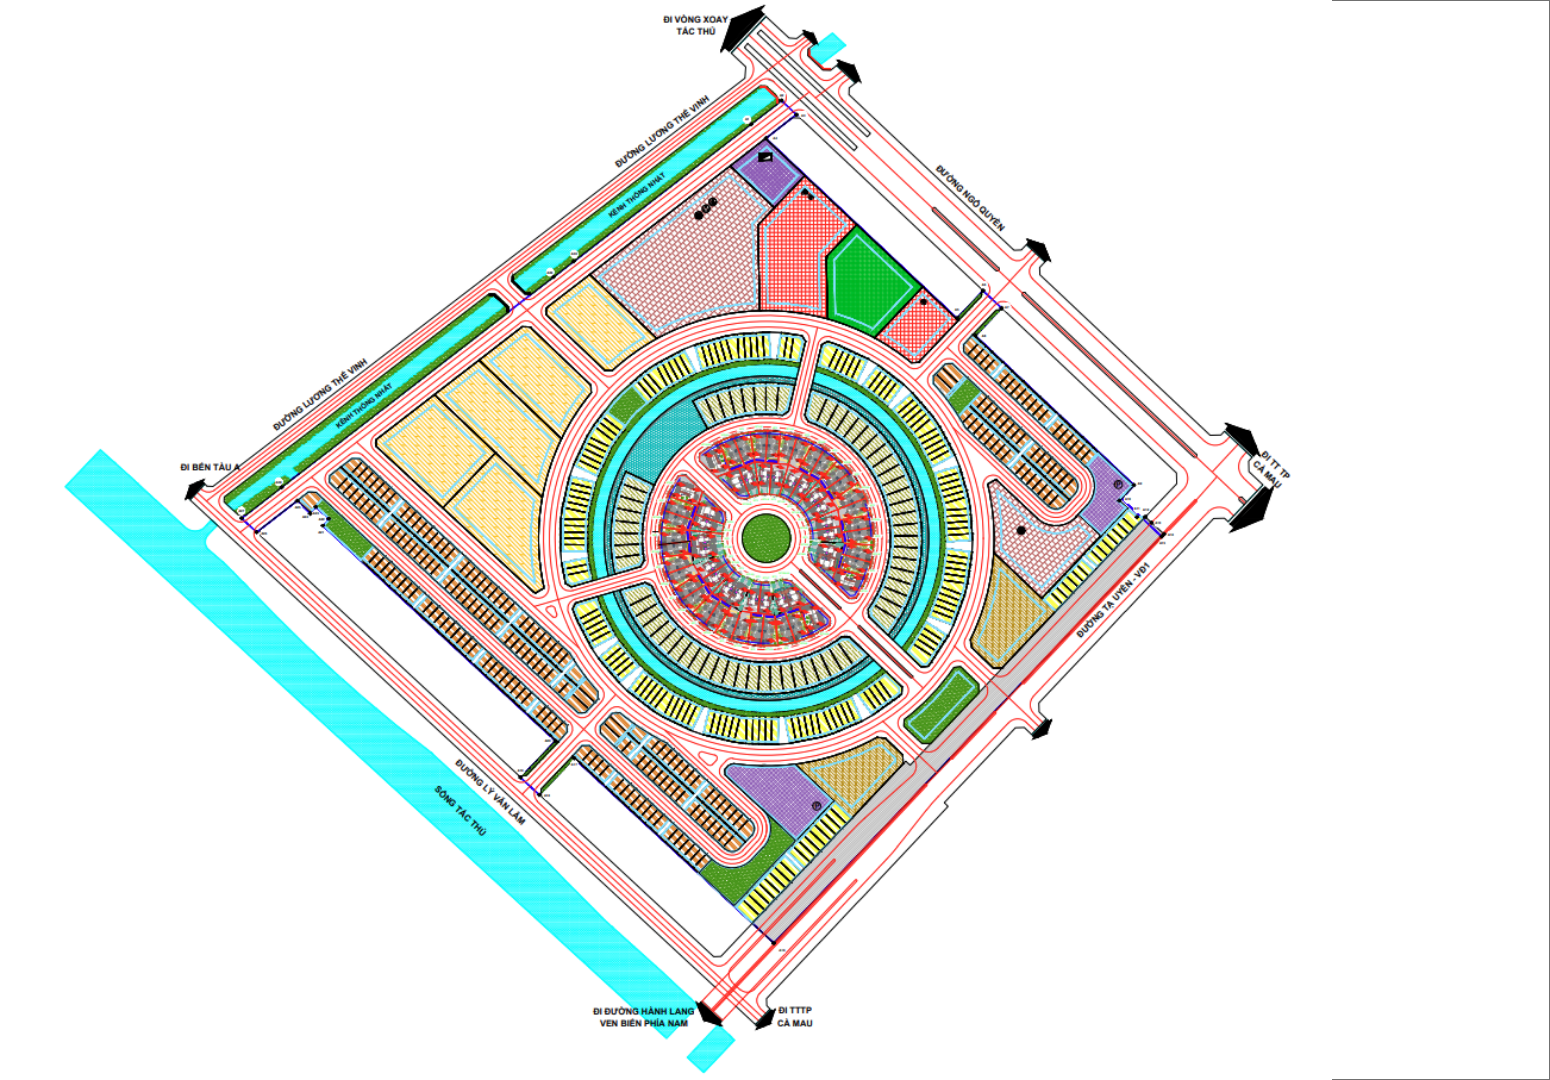
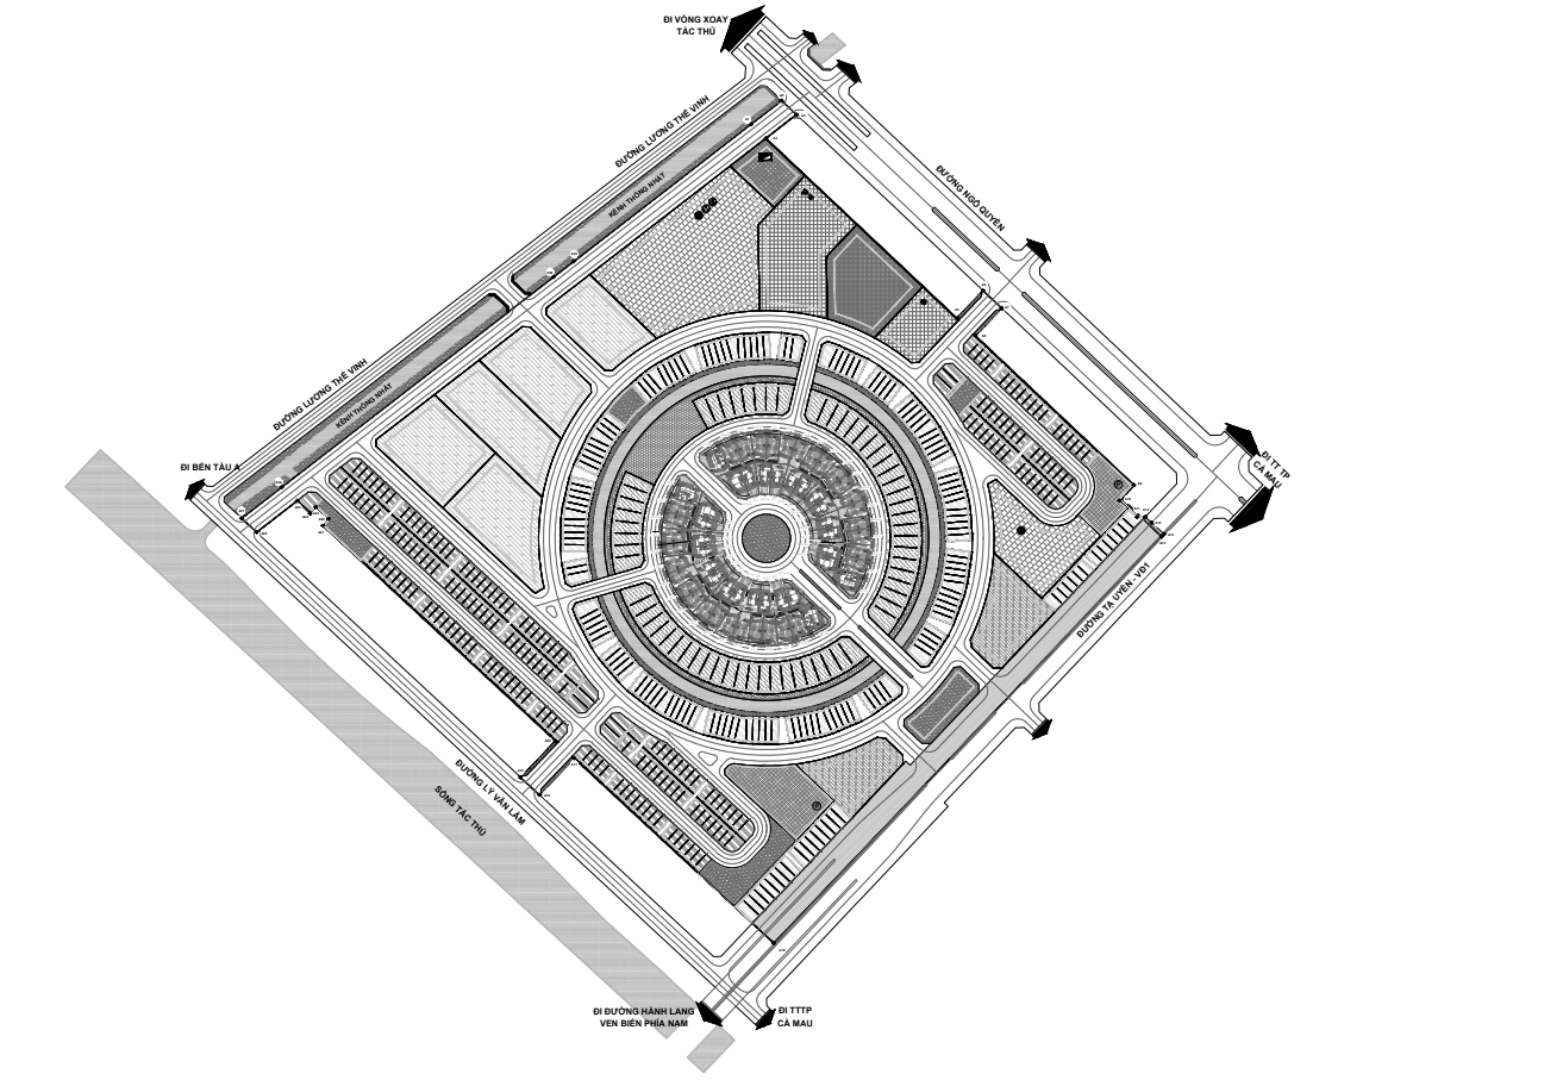
10/12/25lan2

diff --git a/components/UtilityDetails3/ZoningSystem.module.css b/components/UtilityDetails3/ZoningSystem.module.css
@@ -12,29 +12,32 @@
 
 /* Wrapper để đặt SVG lên ảnh */
 .imageWrapper {
-  position: relative; /* ✅ để SVG có thể đặt lên ảnh */
+  position: relative; /* Để SVG có thể đặt lên ảnh */
+  width: 100%;
 }
 
 /* Ảnh full kích thước */
 .img {
   width: 100%;
-  height: 100%;
-  object-fit: cover; 
+  height: auto; /* Có thể thay đổi thành height: 100% nếu cần */
+  object-fit: cover;
   display: block;
+  z-index: 1; /* Đảm bảo ảnh nằm dưới SVG */
 }
 
-
+/* SVG overlay */
 .overlaySvg {
-  position: absolute;
-  top: 20px; 
-  left: 20px;
-  pointer-events: none; 
+  position: absolute; /* Để đặt SVG ở vị trí chính xác */
+  /* top: 20px; 
+  left: 20px;  */
+  /* z-index: 2;  */
+  pointer-events: none; /* Ngăn chặn sự kiện chuột trên SVG nếu không cần thiết */
 }
 
 /* Cột phải (text) */
 .right {
-  width: 240px;     
-  background-color:#FFFAEE;
+  width: 240px;
+  background-color: #fffaee;
   justify-content: center;
   color: #762f0b;
   font-size: 18px;
@@ -69,8 +72,8 @@
   .overlaySvg {
     top: 10px;
     left: 10px;
-    width: 40px;
-    height: 40px;
+    width: 40px; /* Kích thước SVG */
+    height: 40px; /* Kích thước SVG */
   }
 }
 
@@ -88,24 +91,33 @@
   .overlaySvg {
     top: 5px;
     left: 5px;
-    width: 30px;
-    height: 30px;
+    width: 30px; /* Kích thước SVG */
+    height: 30px; /* Kích thước SVG */
   }
 }
-.imageWrapper {
-  position: relative;
-  width: 100%;
-}
-
-.img {
-  width: 100%;
-  height: auto;
-  object-fit: cover;
-  display: block;
-}
-
-/* .overlaySvg {
+.legendBox {
   position: absolute;
-  pointer-events: none;
-  transform: translate(-50%, -50%); 
-} */
+    top: 690px;
+    left: 300px;
+  z-index: 10;
+  display: flex;
+  gap: 100px;
+  /* background: rgba(255, 255, 255, 0.8); */
+  padding: 8px 12px;
+  border-radius: 8px;
+  /* backdrop-filter: blur(4px); */
+}
+
+.legendItem {
+  display: flex;
+  align-items: center;
+  gap: 6px;
+  font-size: 13px;
+  font-weight: 500;
+}
+
+.colorBox {
+  width: 20px;
+  height: 20px;
+  border-radius: 3px;
+}

diff --git a/components/UtilityDetails3/index.tsx b/components/UtilityDetails3/index.tsx
@@ -39,7 +39,7 @@ export default function ZoningSystem({ project_id, initiallayer2 }: ZoningSystem
 
 
 
- const filteredPaths = useMemo(() => {
+  const filteredPaths = useMemo(() => {
     if (!activeModels || activeModels.length === 0) return [];
 
     return pathsData.map((item: SvgItem) => {
@@ -108,14 +108,7 @@ export default function ZoningSystem({ project_id, initiallayer2 }: ZoningSystem
   return (
     <div className={styles.box}>
       <div className={styles.left}>
-         {/* <TransformWrapper
-          initialScale={1}
-     minScale={1} 
-          maxScale={5}
-          wheel={{ step: 0.2 }}
-          doubleClick={{ disabled: true }}
-        >
-          <TransformComponent> */}
+        
         <div className={styles.imageWrapper}>
            <Image
             src={imageSrc}
@@ -126,21 +119,7 @@ export default function ZoningSystem({ project_id, initiallayer2 }: ZoningSystem
             }}
           />
 
-         {/* {filteredPaths.map((item) => {
-  console.log("🟩 SVG được render lên UI:", item.id);
-
-  return (
-    <div
-      key={item.id}
-      className={styles.overlaySvg}
-      style={{
-        top: `${item.topPercent}%`,
-        left: `${item.leftPercent}%`,
-      }}
-      dangerouslySetInnerHTML={{ __html: item.svg }}
-    />
-  );
-})} */}
+      
   {filteredPaths.length > 0 ? (
             filteredPaths.map((item) => (
               <div
@@ -158,8 +137,7 @@ export default function ZoningSystem({ project_id, initiallayer2 }: ZoningSystem
           )}
 
         </div>
-  {/* </TransformComponent>
-        </TransformWrapper> */}
+
 
       </div>
 

diff --git a/components/UtilityDetails3/Menu/index.tsx b/components/UtilityDetails3/Menu/index.tsx
@@ -234,7 +234,7 @@ if (subzone.toLowerCase() === "skip") return;
                       ? "linear-gradient(to top, #FFE09A,#FFF1D2)"
                       : undefined,
                 }}
-                // disabled={isMultiMode === "multi"}
+                disabled={isMultiMode === "multi"}
               >
                 {item.label}
               </Button>

diff --git a/components/Seriesofbuildings2/Menu/index.tsx b/components/Seriesofbuildings2/Menu/index.tsx
@@ -257,6 +257,7 @@ export default function Menu({
                       ? "linear-gradient(to top, #FFE09A,#FFF1D2)"
                       : undefined,
                 }}
+                     disabled={isMultiMode === "multi"}
               >
                 {item.label}
               </Button>
